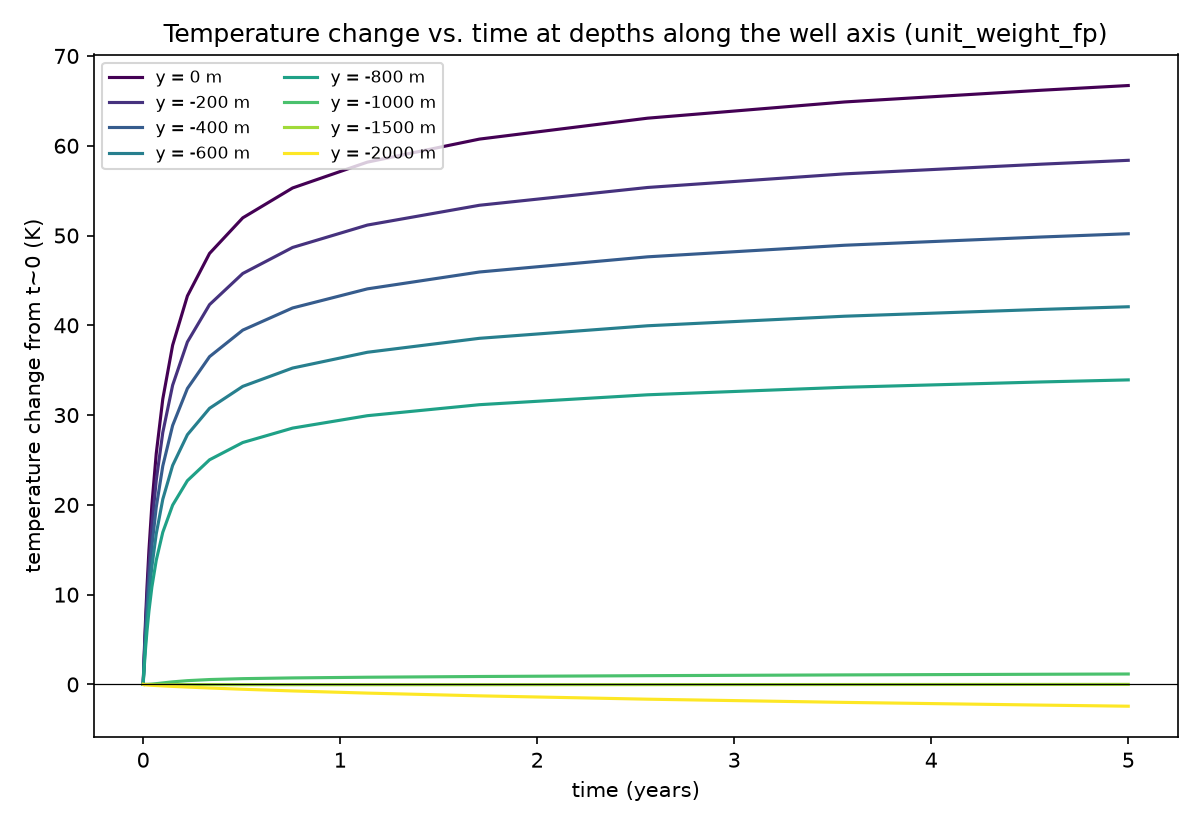
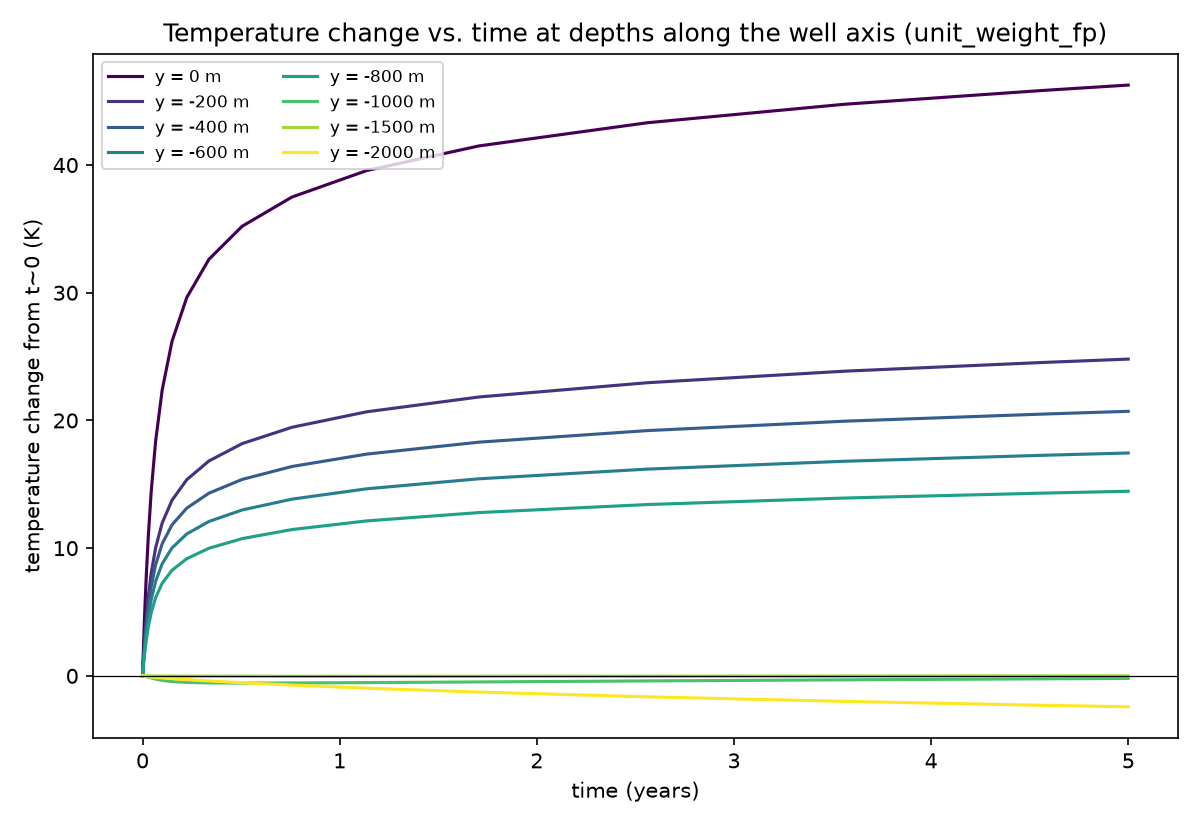
Update geothermal_wellbore docs for auto-placed cased-section points
Regenerated all result figures from fresh full 5-year runs at the new
point density and updated every quoted Results number to match. The
near-surface temperature-rise numbers dropped notably (eg ~46K vs ~67K at
the surface) - verified this is a real, expected consequence of refining
the point density: a coarser point spacing concentrates the same total
exchanged heat onto fewer Dirac points, each of which then overshoots more
in the local FEM solution, so the old numbers were partly discretization
artifact. Confirmed by re-running the pre-change point_file geometry
side-by-side: beyond ~20m from the well, profiles are indistinguishable
between old and new geometries; only the values right at (and, at the one
coordinate two independently-placed point sets share, very near) the well
itself moved.

Also updated the stability-wall discussion: re-bisected at the new point
density and found the day-156 wall at h~1.5-1.8 is gone, now stable
through at least h=3 and only failing between h=3 and h=5 - a real
numerical-conditioning benefit of the finer discretization, not just an
accuracy one.

diff --git a/doc/content/examples/geothermal_wellbore.md b/doc/content/examples/geothermal_wellbore.md
@@ -93,14 +93,28 @@ depending on whether mass can actually cross the well wall there:
   permeability, under which heat injected here could not relieve via flow and instead thermally
   pressurized the trapped pore fluid, running away above $h \sim 0.1$; at the realistic cap
   permeability used now (see [#model-setup]), that specific failure mode no longer binds. A
-  separate numerical limit remains, unrelated to pressurization: above roughly
-  $h \sim 1.5\text{-}1.8\ \mathrm{W/m^2/K}$, the simulation stalls around day 156 of the run
-  (confirmed by bisection; raising the solver's iteration limit does not rescue it), so 1.5 stays
-  just below that wall. The resulting conductive exchange totals about 6.6% of the advected heat
-  rate $Q_{\mathrm{adv}}$ over the run - real, but secondary to a much larger effect: at this
-  permeability, the cap itself is porous enough for the well's own pressure drawdown to drive
-  significant advective flow up through it, which dominates the temperature changes shown in
-  [#results] far more than this conductive term does.
+  separate numerical limit was found at the point placement then in use (a hand-listed
+  `point_file` shared with the open interval, 100m between points): the simulation stalled
+  around day 156 of the run above roughly $h \sim 1.5\text{-}1.8\ \mathrm{W/m^2/K}$. Switching to
+  the auto-placed points described next removed that wall - this revision now runs cleanly
+  through at least $h = 3\ \mathrm{W/m^2/K}$, twice the value actually used, only failing
+  somewhere between 3 and 5. The resulting conductive exchange totals about 9% of the advected
+  heat rate $Q_{\mathrm{adv}}$ over the run - real, but secondary to a much larger effect: at
+  this permeability, the cap itself is porous enough for the well's own pressure drawdown to
+  drive significant advective flow up through it, which dominates the temperature changes shown
+  in [#results] far more than this conductive term does.
+
+  [PorousFlowCasedBoreholeHeatExchange.md]'s own Dirac points are placed by
+  [PolylineDiracPoints.md] (see the `[Reporters][cased_path]` block in [#model-setup]), not by a
+  hand-listed `point_file`: given just the wellhead and the open/cased boundary as literal
+  coordinates, it auto-finds every mesh element the path between them crosses and places one
+  point per element, at this mesh's own 50m vertical resolution rather than at the open
+  interval's 100m Peaceman spacing. An earlier revision shared the open interval's `point_file`
+  for this kernel too, which resolved the conductive exchange on only every other mesh node - a
+  visibly lumpy pattern in Exodus output, and (as the day-156 wall above shows) a real numerical
+  cost as well, not just a cosmetic one. The same object accepts three or more waypoints for a
+  bent or branching well and works unchanged on a fully 3D Cartesian mesh; this example's well is
+  vertical and this mesh is 2D RZ only because the physics being demonstrated is.
 
 ## Model setup
 
@@ -121,7 +135,11 @@ well line itself, dashed marks the open interval, where fluid can actually cross
 and solid marks the cased section, which is sealed to mass flow. The white dots along the open
 interval are the 11 discrete Peaceman points (from `geothermal_wellbore.bh`, 100m apart) where
 `withdraw_fluid`/`withdraw_heat` actually act - the only locations where fluid leaves the
-formation and enters the well.
+formation and enters the well. The cased section above them has its own, separately-placed set
+of 20 points (one per 50m mesh element, via [PolylineDiracPoints.md]; see
+[#borehole-heat-exchange]) where the conductive heat-exchange kernel acts - not shown here, since
+they are simply the mesh's own resolution rather than a deliberate modelling choice the way the
+Peaceman points are.
 
 !media geothermal_wellbore_schematic.png
   id=geothermal_wellbore_geometry_fig
@@ -152,8 +170,12 @@ than either the conductive heat exchange described above or simple conduction al
 
 !listing examples/geothermal_wellbore/model_common.i block=Materials
 
-The two wells share one `point_file` and `character` function, so the open interval is identical
-for the mass-extraction and heat-exchange DiracKernels:
+The mass-extraction DiracKernels (`withdraw_fluid`/`withdraw_heat`) share one `point_file` and
+`character` function, so the open interval is identical for both. The cased-section heat-exchange
+kernel uses the same well line and the complementary `character` function, but places its own
+points via the `[Reporters][cased_path]` block below rather than sharing that `point_file`:
+
+!listing examples/geothermal_wellbore/wells_variable_unit_weight.i block=Reporters/cased_path
 
 !listing examples/geothermal_wellbore/wells_variable_unit_weight.i block=DiracKernels
 
@@ -208,18 +230,29 @@ because any mass crosses the well wall there, which it still does not.
 [geothermal_wellbore_temperature_depths_fig] shows how temperature changes over time at a series
 of depths along the well axis, for the `unit_weight_fp` treatment, and the picture is very
 different from a purely conductive cap: temperature rises substantially throughout the cased
-section, not just near its two ends. At the surface (y=0m) it rises by about 67 K over 5 years;
-at y=-200, -400, -600 and -800m the rises are about 58, 50, 42 and 34 K respectively - a smooth
+section, not just near its two ends. At the surface (y=0m) it rises by about 46 K over 5 years;
+at y=-200, -400, -600 and -800m the rises are about 25, 21, 17 and 14 K respectively - a smooth
 gradient, largest near the surface and decreasing with depth through the cap. This is not the
-new conductive heat exchange at work (which totals only about 6.6% of the advected heat rate):
-it is the realistically-permeable cap itself allowing the well's pressure drawdown to pull fluid,
+new conductive heat exchange at work (which totals only about 9% of the advected heat rate): it
+is the realistically-permeable cap itself allowing the well's pressure drawdown to pull fluid,
 and the heat it carries, up through the cased section by advection - a genuinely different, and
 much larger, mechanism than the small conductive term derived in [#borehole-heat-exchange]. Right
-at the cap/reservoir interface (y=-1000) the change is a much more modest 1.2 K, and below it -
-in the open interval and reservoir - the picture reverts to what drives the mass/heat extraction
-comparison above: temperature at the well bottom (y=-2000m) falls by about 2.4 K as continuous
-heat extraction outpaces replenishment from the surrounding reservoir, while y=-1500m barely
-changes at all.
+at the cap/reservoir interface (y=-1000) the change is negligible (a fraction of a degree either
+way), and below it - in the open interval and reservoir - the picture reverts to what drives the
+mass/heat extraction comparison above: temperature at the well bottom (y=-2000m) falls by about
+2.4 K as continuous heat extraction outpaces replenishment from the surrounding reservoir, while
+y=-1500m barely changes at all.
+
+These near-surface numbers are noticeably smaller than an earlier revision of this example
+reported at the same materials and `heat_transfer_coefficient` (about 67 K at the surface, rather
+than 46 K) - a direct, and reassuring, consequence of switching to
+[PolylineDiracPoints.md]'s finer, mesh-resolution point placement described in
+[#borehole-heat-exchange]. A coarser point spacing concentrates the same total exchanged heat
+onto fewer Dirac points, and each point's own local Dirac-source response in the FEM solution
+overshoots more the more concentrated it is; the earlier, coarser numbers were partly this
+overshoot, not purely the physical advective signal. The total conductive exchange itself barely
+moved (see [#borehole-heat-exchange]) - only its spatial distribution, and hence how much
+discretization artifact leaks into a point sample taken right at the well, did.
 
 !media geothermal_wellbore_temperature_depths.png
   id=geothermal_wellbore_temperature_depths_fig
@@ -229,8 +262,19 @@ changes at all.
 
 [geothermal_wellbore_halo_fig] shows the temperature at the cap/reservoir interface (right where
 the well's open interval begins) as a function of radius, at the end of the run - a real,
-well-centered thermal halo around the well for both treatments, peaking at about 404.3 K against
-a 403.2 K background and extending to about 60m radius.
+well-centered thermal halo around the well for both treatments, settling back to a 403.2 K
+background by about 100-150m radius. Its very center is not perfectly smooth: at r=0 the
+temperature (402.9 K) actually sits slightly *below* the background, with the local maximum
+(403.7 K) at the next sample out (r=10m) instead. y=-1000 is the one location where two
+independently-discretized objects place a point at exactly the same coordinate - the cased
+kernel's own deepest (and, there, inactive) point and the open interval's shallowest Peaceman
+point - so the temperature reported right there reflects the balance of the advective cooling
+from `withdraw_fluid`/`withdraw_heat` (still acting at that exact point) against how much
+warmth conducts across from the nearest *active* cased point, 75m up the well, rather than any
+local heat input of the cased kernel's own (`cased_character` is zero at y=-1000 itself). Beyond
+r=20m the profile is indistinguishable from a run that still used the old, coarser cased-section
+point placement, confirming the halo's overall shape and extent are unaffected - only the one or
+two points immediately at the shared coordinate move.
 
 !media geothermal_wellbore_temperature_halo.png
   id=geothermal_wellbore_halo_fig
@@ -238,16 +282,18 @@ a 403.2 K background and extending to about 60m radius.
   caption=Temperature vs. radius at the cap/reservoir interface, final timestep.
 
 [geothermal_wellbore_cap_temperature_fig] shows the same kind of radial profile, but strictly
-*inside* the cap, 500m below the surface, and at a handful of times through the run, rather than
-a single final snapshot at the cap/reservoir boundary. The profile is flat at the undisturbed
-background (353.15 K, the geothermal gradient's value at this depth) at early times, then a
-sharp, growing spike develops right at the well - reaching about 399 K by the end of the run,
-46 K above background, and decaying back to background within about 20m. This is the same
-advective mechanism visible in [geothermal_wellbore_temperature_depths_fig], now shown as a
-function of radius rather than time: hot fluid drawn up along the well axis through the
-realistically-permeable cap, not the new conductive heat exchange kernel, whose own contribution
-(reported separately via `wellbore_heat_point_flux_out`, not distinguishable from the advective
-signal in a plain temperature snapshot like this one) is an order of magnitude smaller.
+*inside* the cap, 500m below the surface (not at a shared point-placement coordinate the way
+y=-1000 is, so this profile is smooth and monotonic all the way to r=0), and at a handful of
+times through the run, rather than a single final snapshot at the cap/reservoir boundary. The
+profile is flat at the undisturbed background (353.15 K, the geothermal gradient's value at this
+depth) at early times, then a growing peak develops right at the well - reaching about 372 K by
+the end of the run, 19 K above background, and decaying back to background within about 50m.
+This is the same advective mechanism visible in [geothermal_wellbore_temperature_depths_fig], now
+shown as a function of radius rather than time: hot fluid drawn up along the well axis through
+the realistically-permeable cap, not the new conductive heat exchange kernel, whose own
+contribution (reported separately via `wellbore_heat_point_flux_out`, not distinguishable from
+the advective signal in a plain temperature snapshot like this one) is an order of magnitude
+smaller.
 
 !media geothermal_wellbore_cap_temperature_radial.png
   id=geothermal_wellbore_cap_temperature_fig

diff --git a/doc/content/source/dirackernels/PorousFlowCasedBoreholeHeatExchange.md b/doc/content/source/dirackernels/PorousFlowCasedBoreholeHeatExchange.md
@@ -13,9 +13,14 @@ the casing there, the produced fluid keeps flowing up the well, and the well los
 *conductively* through the casing wall as it passes through the surrounding formation.
 
 `PorousFlowCasedBoreholeHeatExchange` models that conductive exchange. It approximates the
-casing by the same sequence of weighted Dirac points as `PorousFlowPeacemanBorehole` (read from
-the same `point_file`), active only where a `character` function (typically the complement of
-the open-interval well's own `character`) is nonzero.
+casing by a sequence of weighted Dirac points, active only where a `character` function
+(typically the complement of the open-interval well's own `character`) is nonzero. Unlike
+`PorousFlowPeacemanBorehole`, that point set need not come from the same hand-listed `point_file`
+as the open interval's mass-extraction kernels - [PolylineDiracPoints.md] auto-places one point
+per mesh element crossed between a set of literal waypoint coordinates, so the cased section's
+own points can sit at the mesh's own resolution rather than at whatever spacing the open
+interval's Peaceman points happen to use. See "Point set and the open/cased boundary" below for
+the one geometric requirement this places on that point set.
 
 The wellbore fluid temperature is not a solved nonlinear variable. It is recomputed once per
 residual and once per Jacobian evaluation from the closed-form solution of
@@ -24,8 +29,9 @@ residual and once per Jacobian evaluation from the closed-form solution of
 \frac{dT_{\mathrm{well}}}{ds} = -\frac{hP}{\dot{m}c_p}\left(T_{\mathrm{well}} - \bar{T}_{\mathrm{formation}}\right) \ ,
 \end{equation}
 
-where $h$ is `heat_transfer_coefficient`, $P$ is the casing perimeter (from the `point_file`
-radius), $\dot{m}$ is the total produced mass rate, $c_p$ is the fluid's specific heat, and
+where $h$ is `heat_transfer_coefficient`, $P$ is the casing perimeter (from each point's own
+weight, ie its radius), $\dot{m}$ is the total produced mass rate, $c_p$ is the fluid's specific
+heat, and
 $\bar{T}_{\mathrm{formation}}$ is a single length-weighted average formation temperature over
 the whole cased section (rather than a segment-by-segment recomputation): $T_{\mathrm{well}}$ at
 any point depends only on the entry temperature below and that point's own cumulative distance
@@ -47,26 +53,42 @@ undifferentiated this destabilized the coupled Newton solve during the example's
 ramp-up - lagging to the old solution removes the dependency instead of merely approximating it.
 
 The starting (entry) condition is the mass-flux-weighted mixing temperature of everything
-produced across the open interval (read from a `PorousFlowPointFluxQuantity`/
-`PorousFlowPlotPointFluxQuantity` pair already reporting that well's per-point flux, at the same
-one-time-step lag), not simply the local formation temperature at the open/cased boundary - fluid
-produced deeper in the open interval is hotter, and most of the produced mass typically enters
-there, so using only the boundary-point temperature would understate the fluid actually entering
-the casing.
+produced across the open interval, read from a `PorousFlowPointFluxQuantity`/
+`PorousFlowPlotPointFluxQuantity` pair already reporting that well's per-point flux *and*
+coordinates (at the same one-time-step lag), not simply the local formation temperature at the
+open/cased boundary - fluid produced deeper in the open interval is hotter, and most of the
+produced mass typically enters there, so using only the boundary-point temperature would
+understate the fluid actually entering the casing. Sampling formation temperature at that VPP's
+own reported coordinates, rather than at this kernel's own points, is what lets the two point
+sets be placed completely independently of one another.
+
+## Point set and the open/cased boundary
+
+The wellbore-temperature march needs a point right at the open/cased boundary to enter the
+mixing temperature at and to measure cumulative distance from - so this kernel's own *last*
+(deepest) point must be one where `character` is zero. `initialSetup()` checks this and
+`paramError`s if it isn't: without the check, a point set that stopped even slightly short of the
+boundary would leave every point active and this kernel would silently exchange no heat at all,
+with no diagnostic. By convention that last point should coincide with the shallowest point of
+the open interval's own point set, so that `s = 0` in the ODE above sits at the true physical
+boundary - but nothing enforces that coordinate match itself, since the mixing temperature no
+longer depends on this kernel's own points at all (see above).
 
 $h$ is nominally the *casing-side* resistance only (the in-well convective film, the steel
 casing, and the cement sheath), referenced to the casing outer radius - not an overall
 wellbore-to-far-field heat transfer coefficient, since the formation's own conductive resistance
 is already resolved by the mesh. In this example, the cap's permeability is realistic (see
 [geothermal_wellbore.md]), so $h$ can use a realistic estimate too: 1.5 $\mathrm{W/m^2/K}$. A
-separate numerical limit, unrelated to any thermal-pressurization concern, remains around
-$h=1.5\text{-}1.8\ \mathrm{W/m^2/K}$: above it the solve stalls near day 156 of the 5-year run
-(confirmed by bisection; raising the solver's iteration limit does not rescue it), so 1.5 stays
-just below that wall. The resulting conductive exchange totals about 6.6% of the advected
-`well_heat_rate` - real, but small next to a much larger effect: at this permeability, the cap
-itself is porous enough for the well's own pressure drawdown to drive substantial advective flow
-up through it, which dominates the temperature changes this example actually shows far more than
-this conductive term does.
+separate numerical limit, unrelated to any thermal-pressurization concern, was found at the
+point spacing this kernel originally used (a hand-listed `point_file` shared with the open
+interval, 100m between points): above roughly $h=1.5\text{-}1.8\ \mathrm{W/m^2/K}$ the solve
+stalled near day 156 of the 5-year run. Switching to [PolylineDiracPoints.md]'s finer,
+mesh-resolution point placement removed that wall - the example now runs cleanly through at
+least $h=3\ \mathrm{W/m^2/K}$, only failing somewhere between 3 and 5. The resulting conductive
+exchange totals about 9% of the advected `well_heat_rate` - real, but small next to a much larger
+effect: at this permeability, the cap itself is porous enough for the well's own pressure
+drawdown to drive substantial advective flow up through it, which dominates the temperature
+changes this example actually shows far more than this conductive term does.
 
 As with `PorousFlowPeacemanBorehole`, the Jacobian only differentiates the local (same-point)
 dependence of the residual on the current iterate; the wellbore temperature profile's dependence
@@ -75,6 +97,8 @@ on formation temperature at *other* well points cannot be assembled into by a si
 than merely left undifferentiated.
 
 ## Example Input File Syntax
+
+!listing examples/geothermal_wellbore/wells_variable_unit_weight.i block=Reporters/cased_path
 
 !listing examples/geothermal_wellbore/wells_variable_unit_weight.i block=DiracKernels/wellbore_heat_exchange
 
